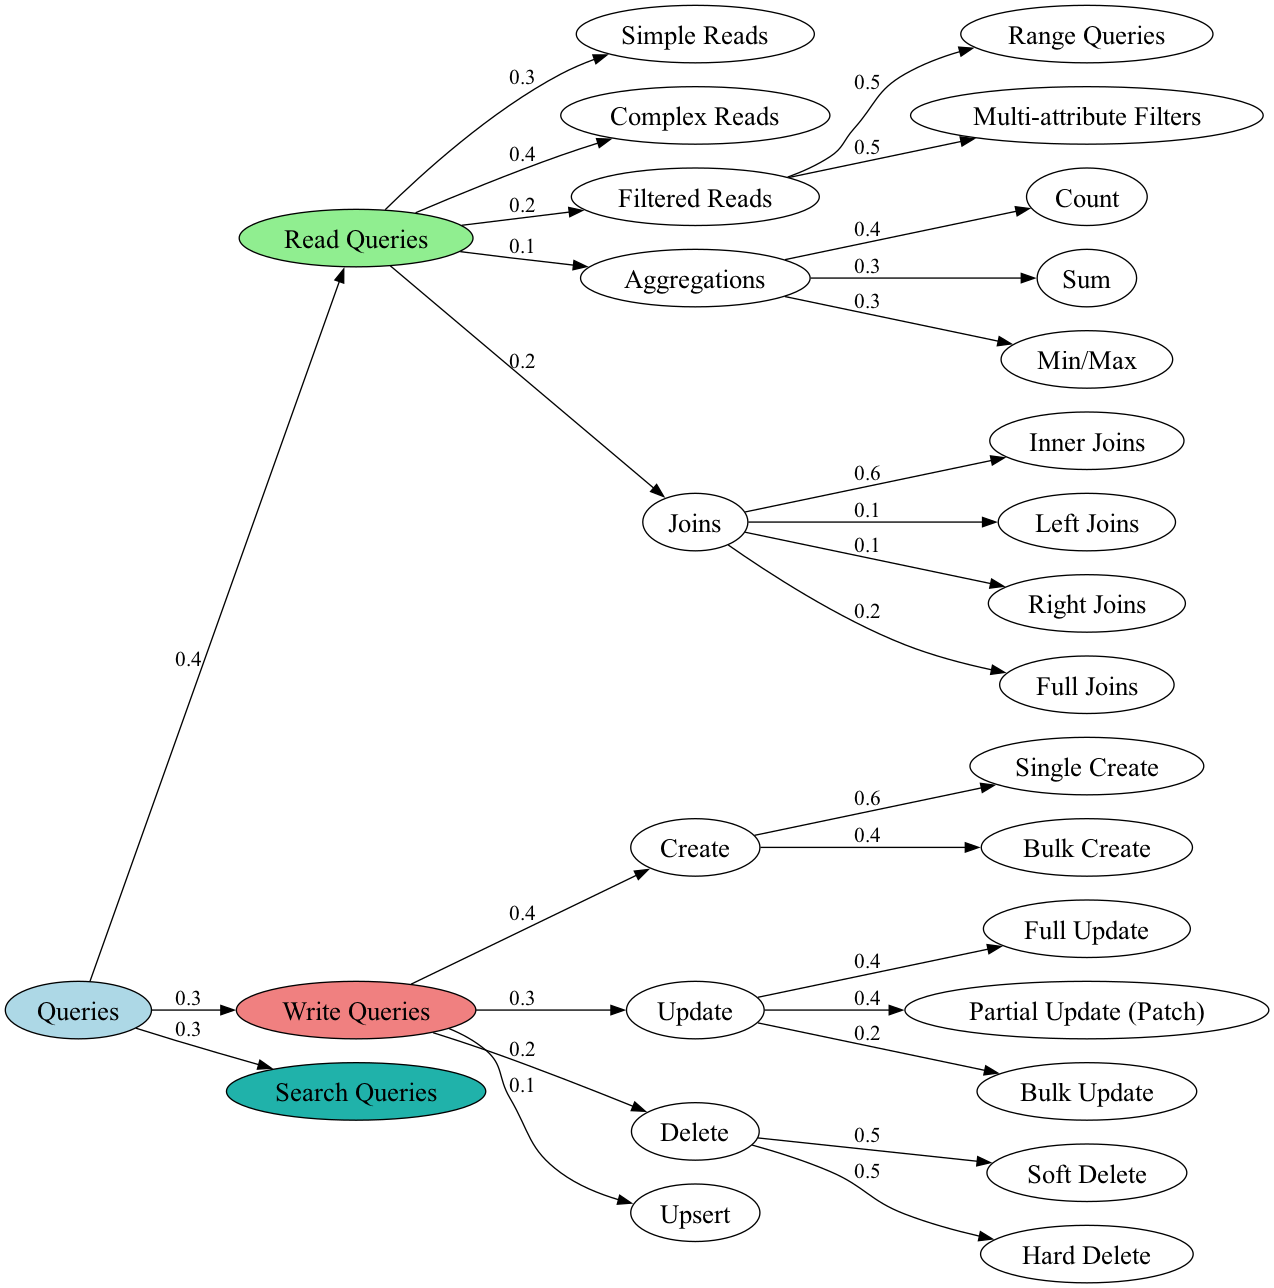
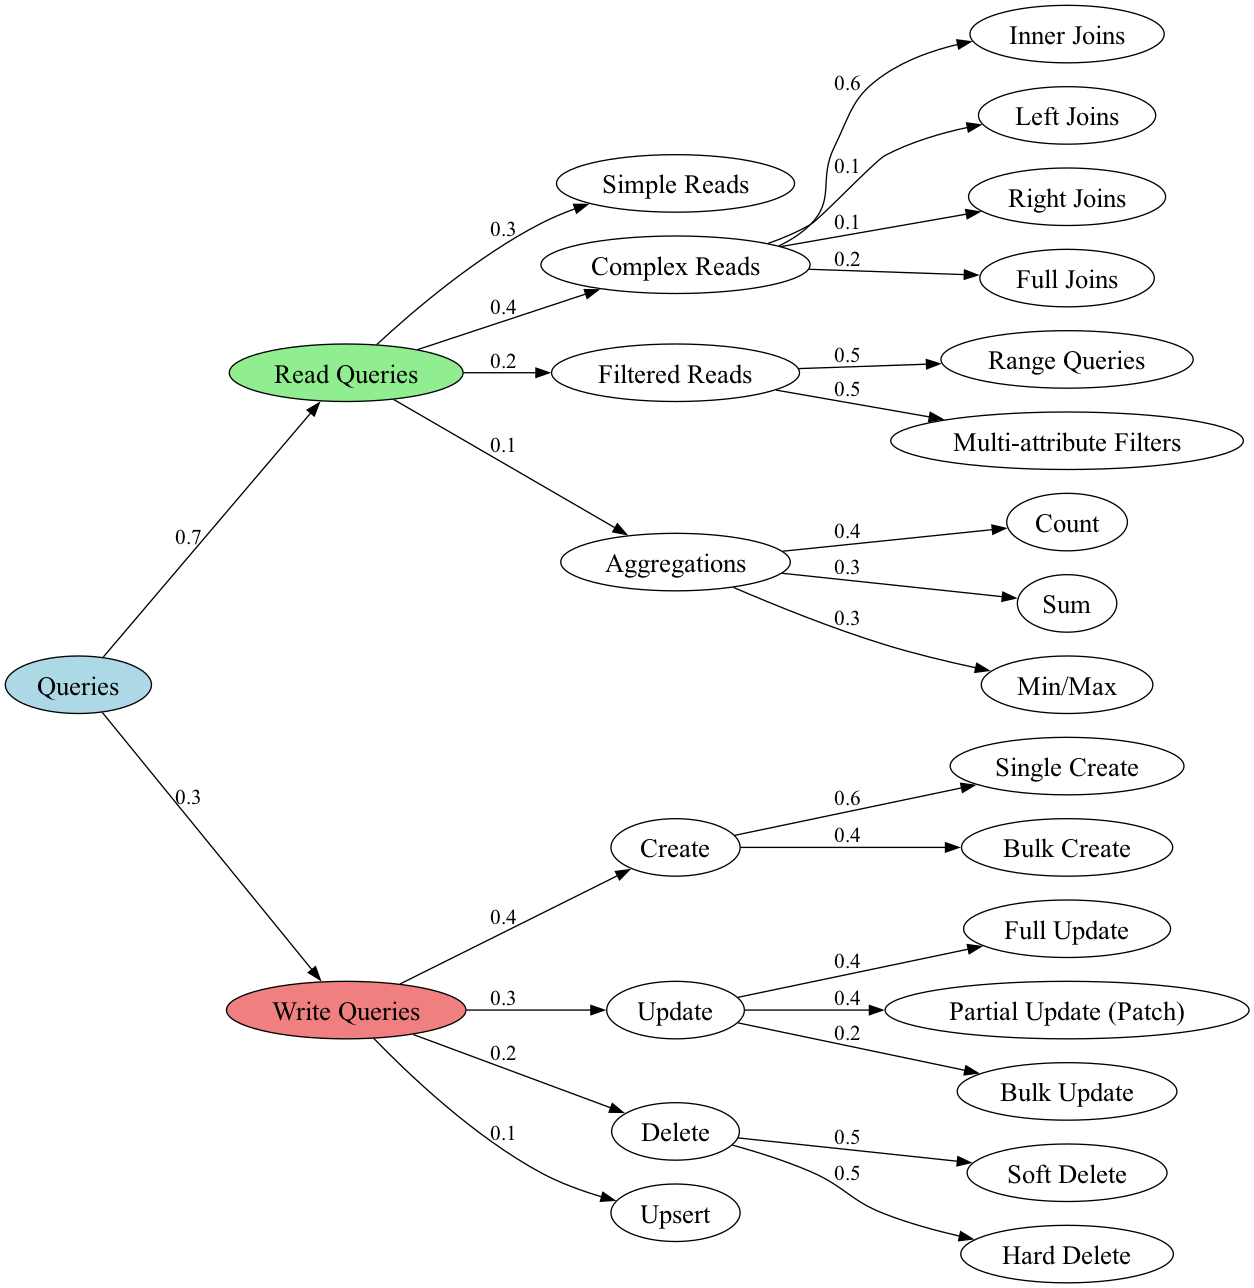
updated

diff --git a/graph.py b/graph.py
@@ -7,11 +7,11 @@ G = nx.DiGraph()
 
 # Define nodes and their hierarchical relationships with probabilities
 nodes = {
-    "Queries": {"Read Queries": 0.4, "Write Queries": 0.3, "Search Queries": 0.3},
-    "Read Queries": {"Simple Reads": 0.3, "Complex Reads": 0.4, "Filtered Reads": 0.2, "Aggregations": 0.1, "Joins": 0.2},
+    "Queries": {"Read Queries": 0.7, "Write Queries": 0.3},
+    "Read Queries": {"Simple Reads": 0.3, "Complex Reads": 0.4, "Filtered Reads": 0.2, "Aggregations": 0.1},
     "Filtered Reads": {"Range Queries": 0.5, "Multi-attribute Filters": 0.5},
     "Aggregations": {"Count": 0.4, "Sum": 0.3, "Min/Max": 0.3},
-    "Joins": {"Inner Joins": 0.6, "Left Joins": 0.1, "Right Joins": 0.1, "Full Joins": 0.2},
+    "Complex Reads": {"Inner Joins": 0.6, "Left Joins": 0.1, "Right Joins": 0.1, "Full Joins": 0.2},
     "Write Queries": {"Create": 0.4, "Update": 0.3, "Delete": 0.2, "Upsert": 0.1},
     "Create": {"Single Create": 0.6, "Bulk Create": 0.4},
     "Update": {"Full Update": 0.4, "Partial Update (Patch)": 0.4, "Bulk Update": 0.2},
